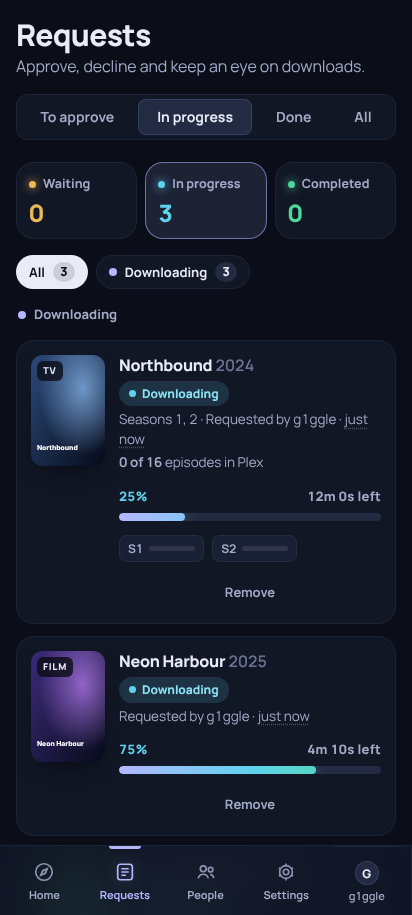
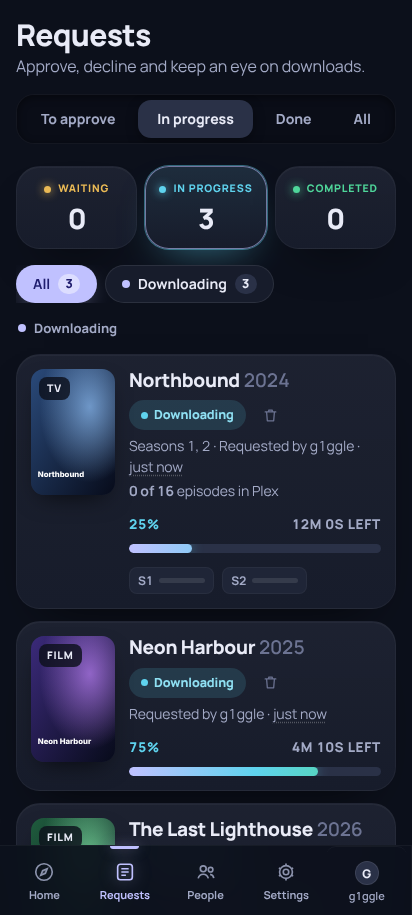
Match the reference styling: buttons, cards, chips, posters
- Slate cards with soft depth and 24px corners
- Pastel lavender buttons with dark ink text; glowing lavender-to-cyan Request button on title pages
- Recessed pill tabs; active filter chip is a glowing lavender pill
- Posters: rating chip, status label, a + button to request films in one tap (shows open the season picker)
- Request cards: bigger poster, full-width Approve with an icon Decline, remove tucked beside the status
- Centred stat tiles with coloured labels; round cast photos; cyan genres
- Phone: full-width title header without the squeezed poster
- Removed the last emoji from row titles

Claude-Session: https://claude.ai/code/session_01WbwGgC2FpzWvgXgKTPj5Lz

diff --git a/internal/web/static/app.js b/internal/web/static/app.js
@@ -158,6 +158,8 @@ function rowIcon(key) {
 }
 
 const I = {
+  x: '<svg viewBox="0 0 24 24" fill="none" stroke="currentColor" stroke-width="2" stroke-linecap="round"><path d="M6.5 6.5l11 11M17.5 6.5l-11 11"/></svg>',
+  trash: '<svg viewBox="0 0 24 24" fill="none" stroke="currentColor" stroke-width="1.8" stroke-linecap="round" stroke-linejoin="round"><path d="M4.5 7h15M9.5 7V4.5h5V7M6.5 7l1 12.5h9l1-12.5"/></svg>',
   discover: '<svg viewBox="0 0 24 24" fill="none" stroke="currentColor" stroke-width="1.8"><circle cx="12" cy="12" r="9"/><path d="m15.5 8.5-2 5-5 2 2-5z" fill="currentColor" fill-opacity=".25"/></svg>',
   search: '<svg viewBox="0 0 24 24" fill="none" stroke="currentColor" stroke-width="1.8"><circle cx="11" cy="11" r="6.5"/><path d="m20 20-4.2-4.2"/></svg>',
   requests: '<svg viewBox="0 0 24 24" fill="none" stroke="currentColor" stroke-width="1.8"><rect x="4" y="3.5" width="16" height="17" rx="3"/><path d="M8 8.5h8M8 12h8M8 15.5h5"/></svg>',
@@ -171,6 +173,28 @@ const I = {
 };
 
 const ACCENTS = [["violet", "#b4b6ff", "Lavender"], ["blue", "#5b93f0", "Blue"], ["teal", "#2fbfae", "Teal"], ["green", "#52c47c", "Green"], ["yellow", "#e9bb4a", "Yellow"], ["coral", "#ef8256", "Orange"], ["red", "#e55a61", "Red"], ["pink", "#e46aa8", "Pink"]];
+
+// The "+" on a poster: films are requested on the spot, shows open the
+// season picker on their page.
+async function quickRequest(el) {
+  const [type, id] = el.dataset.qreq.split(":");
+  if (type === "tv") { state.autoReq = true; location.hash = `#/title/tv/${id}`; return; }
+  el.classList.add("busy");
+  try {
+    await api("/requests", { method: "POST", body: { type: "movie", tmdbId: Number(id) } });
+    el.classList.remove("busy"); el.classList.add("done"); el.innerHTML = I.check; el.removeAttribute("data-qreq");
+    toast("Requested", "ok");
+    if (isAdmin()) refreshPending();
+  } catch (e) { el.classList.remove("busy"); toast(e.message, "error"); }
+}
+document.addEventListener("click", (e) => {
+  const q = e.target.closest && e.target.closest("[data-qreq]");
+  if (!q) return;
+  e.preventDefault(); e.stopPropagation(); quickRequest(q);
+}, true);
+document.addEventListener("keydown", (e) => {
+  if ((e.key === "Enter" || e.key === " ") && e.target.matches && e.target.matches("[data-qreq]")) { e.preventDefault(); quickRequest(e.target); }
+}, true);
 
 // ---------- boot & routing ----------
 async function boot() {
@@ -377,11 +401,12 @@ function card(c) {
   const st = c.status && c.status !== "none" ? `<div class="flag">${pill(c.status === "available" ? "available" : c.status)}</div>` : "";
   const p = img(c.poster);
   const rating = c.rating ? `<span class="crate">${c.rating.toFixed(1)}</span>` : "";
+  const quick = (!c.status || c.status === "none") ? `<span class="qadd" role="button" tabindex="0" data-qreq="${esc(c.type)}:${esc(c.id)}" aria-label="Request ${esc(c.title)}"${tip(c.type === "tv" ? "Request: pick the seasons" : "Request this film")}>${I.plus}</span>` : "";
   return `<a class="card" href="#/title/${esc(c.type)}/${esc(c.id)}" title="${esc(c.title)}">
     <div class="poster">${p ? `<img loading="lazy" src="${esc(p)}" alt="">` : `<div class="noimg">${esc(c.title)}</div>`}
-      <span class="type">${c.type === "tv" ? "TV" : "Film"}</span>${st}
+      ${c.rating ? `<span class="rchip">${c.rating.toFixed(1)}</span>` : ""}${st}${quick}
       <div class="peek"><div class="pt">${esc(c.title)}</div><div class="pm">${esc(c.year || "")} ${rating}</div>${c.overview ? `<div class="po">${esc(c.overview)}</div>` : ""}<span class="pgo">${c.status === "available" ? "In your Plex" : "View"} ${I.chev}</span></div></div>
-    <div class="meta"><div class="t">${esc(c.title)}</div><div class="y">${esc(c.year || "")}</div></div></a>`;
+    <div class="meta"><div class="t">${esc(c.title)}</div><div class="y">${[c.year, c.type === "tv" ? "TV" : "Film"].filter(Boolean).map(esc).join(" · ")}</div></div></a>`;
 }
 
 const skeletonRow = () => `<div class="scroller">${Array.from({ length: 8 }, () => `<div><div class="skeleton" style="aspect-ratio:2/3"></div></div>`).join("")}</div>`;
@@ -501,7 +526,7 @@ async function pageDiscover(main, q = "", focus = false) {
     : `<a class="btn primary" href="#/title/${esc(x.type)}/${esc(x.id)}">${I.plus} Request</a>`;
   h.innerHTML = slides.map((x, i) => `<div class="slide ${i === 0 ? "on" : ""}" style="background-image:url('${esc(img(x.backdrop, "w1280"))}')" aria-hidden="${i === 0 ? "false" : "true"}">
       <div class="inner">
-        ${x.status === "available" ? `<div class="qchips"><span class="qchip plex">In your Plex</span></div>` : ""}<div class="eyebrow">Trending this week · ${x.type === "tv" ? "TV show" : "Film"}</div>
+        ${x.status === "available" ? `<div class="qchips"><span class="qchip plex">In your Plex</span></div>` : ""}<div class="eyebrow"><span class="ech">Trending this week</span><span>${x.type === "tv" ? "TV show" : "Film"}</span></div>
         <h1>${esc(x.title)}</h1>
         <div class="hmeta">${x.rating ? `<span class="crate">${x.rating.toFixed(1)}</span>` : ""}${x.year ? `<span>${esc(x.year)}</span>` : ""}</div>
         <p>${esc(x.overview)}</p>
@@ -751,7 +776,7 @@ async function pageTitle(main, type, id) {
         ${qchipsHTML(P)}
         <div class="actions">
           ${P && P.url && ["available", "partial"].includes(s.status) ? `<a class="btn plex" href="${esc(P.url)}" target="_blank" rel="noopener"${tip("Open it in Plex")}>${I.play} Play on Plex</a>` : ""}
-          ${requestable ? `<button class="btn primary" id="reqBtn"${tip(isAdmin() || state.user.role === "trusted" ? "Starts downloading straight away" : "Sends it to the owner to approve")}>${I.plus} ${s.status === "partial" || (type === "tv" && Object.keys(s.seasons || {}).length) ? "Request more" : "Request"}</button>` : ""}
+          ${requestable ? `<button class="btn primary cta" id="reqBtn"${tip(isAdmin() || state.user.role === "trusted" ? "Starts downloading straight away" : "Sends it to the owner to approve")}>${I.plus} ${s.status === "partial" || (type === "tv" && Object.keys(s.seasons || {}).length) ? "Request more" : "Request"}</button>` : ""}
           ${d.trailer ? `<button class="btn" id="trailer"${tip("Watch the trailer here")}>Trailer</button>` : ""}
           ${cancelBtn}
         </div>
@@ -785,6 +810,7 @@ async function pageTitle(main, type, id) {
 
   const reqBtn = qs("#reqBtn");
   if (reqBtn) reqBtn.addEventListener("click", () => requestModal(type, d, s));
+  if (state.autoReq) { state.autoReq = false; if (reqBtn) requestModal(type, d, s); }
   const tr = qs("#trailer");
   if (tr) tr.addEventListener("click", () => modal(`<iframe class="video" src="https://www.youtube-nocookie.com/embed/${encodeURIComponent(d.trailer)}?autoplay=1" allow="autoplay; encrypted-media; picture-in-picture" allowfullscreen title="Trailer"></iframe>`, { wide: true }));
   const cb = qs("#cancelReq");
@@ -965,12 +991,12 @@ function reqRow(r) {
   const p = img(r.poster, "w185");
   const prog = journeyHTML(r.status, r.progress, true, r);
   let actions = "";
-  if (admin && r.status === "pending") actions = `<button class="btn sm ok" data-act="approve" data-id="${r.id}"${tip("Say yes: it goes straight to Radarr/Sonarr to download")}>${I.check} Approve</button><button class="btn sm danger" data-act="decline" data-id="${r.id}"${tip("Say no: they'll see it was declined")}>Decline</button>`;
-  else if (admin && r.status === "failed") actions = `<button class="btn sm" data-act="retry" data-id="${r.id}"${tip("Send it to Radarr/Sonarr again")}>Retry</button>`;
-  if (admin && r.progress && r.progress.blocked) actions += `<button class="btn sm ok" data-act="import" data-id="${r.id}"${tip("Radarr/Sonarr downloaded it but want someone to confirm the import (usually the file name doesn't quite match). This confirms it for you")}>Import it</button>`;
-  if (admin && r.status === "approved" && ["searching", "attention"].includes(r.state)) actions += `<button class="btn sm" data-act="search" data-id="${r.id}"${tip("Ask Radarr/Sonarr to look for a copy right now")}>Search again</button>`;
-  if (r.status === "pending" && (admin || r.requestedBy === state.user.id)) actions += `<button class="btn sm" data-act="delete" data-id="${r.id}">${admin ? "Delete" : "Cancel"}</button>`;
-  else if (admin && r.status !== "pending") actions += `<button class="btn sm ghost" data-act="delete" data-id="${r.id}"${tip(r.source === "watchlist" ? "Remove from this list. Encorr won't add it again from your Plex watchlist" : "Remove from this list (doesn't delete anything from Plex)")}>Remove</button>`;
+  if (admin && r.status === "pending") actions = `<button class="btn primary grow" data-act="approve" data-id="${r.id}"${tip("Say yes: it goes straight to Radarr/Sonarr to download")}>${I.check} Approve</button><button class="btn sq danger" data-act="decline" data-id="${r.id}" aria-label="Decline"${tip("Say no: they'll see it was declined")}>${I.x}</button>`;
+  else if (admin && r.status === "failed") actions = `<button class="btn primary grow" data-act="retry" data-id="${r.id}"${tip("Send it to Radarr/Sonarr again")}>Retry</button>`;
+  if (admin && r.progress && r.progress.blocked) actions += `<button class="btn primary grow" data-act="import" data-id="${r.id}"${tip("Radarr/Sonarr downloaded it but want someone to confirm the import (usually the file name doesn't quite match). This confirms it for you")}>Import it</button>`;
+  if (admin && r.status === "approved" && ["searching", "attention"].includes(r.state)) actions += `<button class="btn grow" data-act="search" data-id="${r.id}"${tip("Ask Radarr/Sonarr to look for a copy right now")}>Search again</button>`;
+  if (r.status === "pending" && (admin || r.requestedBy === state.user.id)) actions += `<button class="btn sq" data-act="delete" data-id="${r.id}" aria-label="${admin ? "Delete" : "Cancel"}"${tip(admin ? "Delete this request" : "Cancel your request")}>${I.trash}</button>`;
+  else if (admin && r.status !== "pending") actions += `<button class="btn sq" aria-label="Remove" data-act="delete" data-id="${r.id}"${tip(r.source === "watchlist" ? "Remove from this list. Encorr won't add it again from your Plex watchlist" : "Remove from this list (doesn't delete anything from Plex)")}>${I.trash}</button>`;
   const src = { watchlist: "from Plex watchlist", app: "from the app", discord: "from Discord" }[r.source] || "";
   const extra = [];
   if (r.type === "tv" && r.status === "approved" && r.want > 0) extra.push(`<span${tip("It moves to Completed once every episode that has aired is in Plex")}><b>${r.have || 0} of ${r.want}</b> episodes in Plex</span>`);
@@ -978,6 +1004,7 @@ function reqRow(r) {
   if (r.state === "searching") extra.push(r.lastSearch ? `<span${tip("Encorr asks Radarr/Sonarr to look again every 12 hours")}>Searched again ${when(r.lastSearch)}</span>` : `<span${tip("Encorr asks Radarr/Sonarr to look again every 12 hours")}>Encorr will search again automatically</span>`);
   const j = journeyState(r.status, r.progress, r);
   const pr = r.progress || {};
+  const lone = actions && !/grow|primary/.test(actions); // just a remove button: tuck it beside the status
   let progHtml = "";
   if (r.status === "approved" && r.state === "downloading" && pr.percent != null) {
     const pct = Math.max(0, Math.min(100, pr.percent));
@@ -991,14 +1018,14 @@ function reqRow(r) {
   return `<div class="req2 st-${esc(r.state || "")}" data-state="${esc(r.state || "")}">
     <a class="rposter" href="#/title/${esc(r.type)}/${esc(r.tmdbId)}">${p ? `<img src="${esc(p)}" alt="">` : `<div class="ph"></div>`}<span class="rtype">${r.type === "tv" ? "TV" : "FILM"}</span></a>
     <div class="rbody">
-      <div class="rtop"><a class="t" href="#/title/${esc(r.type)}/${esc(r.tmdbId)}">${esc(r.title)} <span class="yr">${esc(r.year || "")}</span></a><span class="spill2 ${esc(pillTxt[0])}">${esc(pillTxt[1])}</span></div>
+      <div class="rtop"><a class="t" href="#/title/${esc(r.type)}/${esc(r.tmdbId)}">${esc(r.title)} <span class="yr">${esc(r.year || "")}</span></a><span class="rtr"><span class="spill2 ${esc(pillTxt[0])}">${esc(pillTxt[1])}</span>${lone ? actions : ""}</span></div>
       <div class="s">${r.type === "tv" ? esc(seasonsText(r.seasons)) + " · " : ""}Requested by ${esc(r.user || "someone")} · ${when(r.created)}${src ? " · " + esc(src) : ""}</div>
       ${extra.length ? `<div class="s extras">${extra.join("")}</div>` : ""}
       ${r.note ? `<div class="s">“${esc(r.note)}”</div>` : ""}
       ${r.error ? `<div class="err">${esc(r.error)}</div>` : ""}
       ${progHtml}
       ${r.status === "approved" ? seasonBars(r.seasonProgress) : ""}
-      <div class="racts">${actions}</div>
+      ${lone ? "" : `<div class="racts">${actions}</div>`}
     </div>
   </div>`;
 }

diff --git a/internal/web/static/styles.css b/internal/web/static/styles.css
@@ -1021,3 +1021,156 @@ input[type=search]::-webkit-search-cancel-button { filter: grayscale(1) brightne
   .nav .badge { background: var(--hi); color: #04222b; }
 }
 .hero .hmeta .crate, .hero.carousel .hmeta .crate, .card .crate { color: var(--hi); }
+
+/* =====================================================================
+   Matched to the Lumière reference: slate cards with soft depth, pastel
+   lavender buttons with dark ink text, glowing gradient call to action,
+   recessed pill tabs, rating chips and a "+" on posters.
+   ===================================================================== */
+:root:not([data-theme="black"]) {
+  --bg-0: #0c101b; --surface-1: #171c2b; --surface-2: #1f2537; --surface-3: #2a3147;
+  --line: rgba(255, 255, 255, 0.045); --line-2: rgba(255, 255, 255, 0.09);
+  --shade: 12, 16, 27;
+}
+:root, [data-accent="violet"] { --accent: #c0c1ff; --accent-2: #dcdcff; --accent-pop: #cfd0ff; --accent-ink: #1f1d6e; --accent-glow: rgba(192, 193, 255, 0.5); }
+body { background: var(--bg-0); }
+.card-surface, .glass, .req2, .rstat, .t-side, .journey.glass, .settings .menu, .colbanner, .libsync {
+  background: linear-gradient(180deg, color-mix(in srgb, var(--surface-1) 92%, #fff 3%), var(--surface-1));
+  border: 1px solid var(--line); box-shadow: 0 24px 48px -28px rgba(0, 0, 0, 0.75), inset 0 1px 0 rgba(255, 255, 255, 0.04);
+}
+.glass, .req2, .rstat, .t-side, .journey.glass { border-radius: 24px; }
+
+/* Buttons */
+.btn { border-radius: 16px; padding: 12px 20px; font-size: 15px; font-weight: 750; background: var(--surface-3); border: 0; box-shadow: none; gap: 8px; }
+.btn:hover { background: color-mix(in srgb, var(--surface-3) 85%, #fff 8%); border: 0; }
+.btn svg { width: 18px; height: 18px; }
+.btn.primary { background: var(--accent); color: var(--accent-ink); box-shadow: 0 10px 30px -10px var(--accent-glow), inset 0 1px 0 rgba(255,255,255,.35); }
+.btn.primary:hover { background: var(--accent-pop); }
+.btn.cta { background: linear-gradient(90deg, var(--accent), var(--hi)); color: #0f1530; padding: 15px 28px; font-size: 16px; box-shadow: 0 14px 40px -10px color-mix(in srgb, var(--hi) 60%, transparent), 0 0 0 1px rgba(255,255,255,.12) inset; }
+.btn.cta:hover { filter: brightness(1.06); background: linear-gradient(90deg, var(--accent), var(--hi)); }
+.btn.sm { padding: 8px 13px; font-size: 13px; border-radius: 12px; }
+.btn.sq { width: 46px; height: 46px; padding: 0; justify-content: center; flex: none; border-radius: 14px; }
+.btn.danger { background: color-mix(in srgb, var(--bad) 12%, var(--surface-3)); color: var(--bad-2); border: 0; }
+.btn.ok { background: color-mix(in srgb, var(--ok) 16%, var(--surface-3)); color: var(--ok-2); border: 0; }
+.btn.grow { flex: 1; justify-content: center; }
+.btn.plex { border-radius: 16px; }
+
+/* Inputs and search */
+input[type=text], input[type=url], input[type=password], input[type=number], input[type=search], select, textarea { background: var(--surface-1); border: 1px solid var(--line-2); border-radius: 14px; }
+.searchbar.big { border-radius: 20px; background: var(--surface-1); border: 1px solid var(--line-2); padding: 6px; }
+.searchbar.big svg { color: var(--hi); }
+.searchbar.big .btn { border-radius: 14px; padding: 10px 18px; }
+
+/* Tabs: recessed track, lifted active pill */
+.tabs { background: #0a0d17; border: 1px solid var(--line); border-radius: 18px; padding: 5px; box-shadow: inset 0 2px 8px rgba(0,0,0,.45); }
+[data-theme="black"] .tabs { background: #0a0a0c; }
+.tabs button { border-radius: 13px; padding: 9px 16px; font-size: 14px; font-weight: 750; }
+.tabs button.on { background: var(--surface-3); color: var(--text); box-shadow: 0 4px 12px rgba(0,0,0,.35); }
+
+/* Chips: active is a glowing lavender pill */
+.chip { border-radius: 999px; background: var(--surface-1); border: 1px solid var(--line-2); padding: 8px 16px; font-size: 14px; }
+.chip.on { background: var(--accent); color: var(--accent-ink); border-color: transparent; box-shadow: 0 8px 22px -8px var(--accent-glow); }
+.chip.on b { background: rgba(255,255,255,.45); color: var(--accent-ink); }
+
+/* Section headings */
+.shelf-head h2 { font-size: 21px; font-weight: 800; }
+.shelf-head h2 .ri { color: var(--hi); width: 24px; height: 24px; }
+.shelf-head .see { color: var(--accent); font-size: 14px; font-weight: 800; }
+
+/* Posters */
+.scroller { grid-auto-columns: 168px; gap: 16px; }
+.card .poster { border-radius: 18px; box-shadow: 0 16px 34px -18px rgba(0,0,0,.8), 0 0 0 1px var(--line) inset; }
+.card .t { font-size: 14.5px; font-weight: 800; margin-top: 2px; }
+.card .y { font-size: 13px; color: var(--text-2); font-weight: 600; }
+.card .meta { padding: 11px 2px 0; }
+.rchip { position: absolute; top: 9px; left: 9px; z-index: 2; display: inline-flex; align-items: center; gap: 4px; padding: 5px 9px; border-radius: 10px; background: rgba(var(--shade), .82); backdrop-filter: blur(8px); font-size: 12.5px; font-weight: 800; color: var(--text); }
+.rchip::before { content: "\2605"; color: var(--hi); }
+.flag { top: 9px; right: 9px; }
+.flag .pill { border-radius: 10px; padding: 5px 9px; font-size: 11px; letter-spacing: .06em; text-transform: uppercase; font-weight: 850; background-color: rgba(var(--shade), .82) !important; }
+.flag .pill.available, .flag .pill.completed { color: var(--ok-2); }
+.flag .pill.processing, .flag .pill.approved { color: var(--hi); }
+.flag .pill.pending { color: var(--warn-2); }
+.qadd { position: absolute; right: 10px; bottom: 10px; z-index: 3; width: 42px; height: 42px; border-radius: 50%; display: grid; place-items: center; background: var(--accent); color: var(--accent-ink); box-shadow: 0 8px 22px -6px var(--accent-glow), inset 0 1px 0 rgba(255,255,255,.4); transition: transform .15s, background .15s; cursor: pointer; }
+.qadd svg { width: 20px; height: 20px; stroke-width: 2.4; }
+.qadd:hover { transform: scale(1.08); background: var(--accent-pop); }
+.qadd:focus-visible { outline: 2px solid #fff; outline-offset: 2px; }
+.qadd.busy { opacity: .6; pointer-events: none; }
+.qadd.done { background: var(--ok); color: #05261a; }
+.card:hover .peek ~ .qadd, .card .peek { z-index: 1; }
+@media (hover: hover) { .card .qadd { opacity: 0; transform: scale(.85); } .card:hover .qadd, .card:focus-within .qadd, .card .qadd.done { opacity: 1; transform: none; } }
+
+/* Home banner */
+.hero, .hero.carousel { border-radius: 28px; border: 0; box-shadow: 0 30px 60px -30px rgba(0,0,0,.8); min-height: 440px; }
+.hero.carousel .eyebrow { display: flex; align-items: center; gap: 10px; color: var(--text-2); font-size: 13px; font-weight: 750; margin-bottom: 10px; }
+.hero.carousel .eyebrow .ech { display: inline-flex; align-items: center; gap: 7px; padding: 6px 12px; border-radius: 999px; background: rgba(var(--shade), .75); backdrop-filter: blur(10px); color: var(--hi); font-size: 11.5px; font-weight: 850; letter-spacing: .08em; text-transform: uppercase; }
+.hero.carousel .eyebrow .ech::before { content: ""; width: 7px; height: 7px; border-radius: 50%; background: var(--hi); box-shadow: 0 0 10px var(--hi); }
+.hero.carousel .qchips { margin: 0 0 10px; }
+.hero h1, .hero.carousel h1 { font-size: 52px; }
+.hero.carousel .hmeta { font-size: 16px; font-weight: 750; gap: 12px; }
+.hero .row .btn { padding: 14px 26px; font-size: 16px; border-radius: 18px; }
+.qchip { border-radius: 10px; text-transform: uppercase; letter-spacing: .07em; font-weight: 850; font-size: 11.5px; padding: 6px 11px; background: rgba(var(--shade), .7); border: 0; }
+.qchip.plex { text-transform: uppercase; background: rgba(var(--shade), .8); }
+@media (max-width: 760px) {
+  .hero h1, .hero.carousel h1 { font-size: 32px; }
+  .hero .row { flex-wrap: nowrap; } .hero .row .btn.primary, .hero .row .have { flex: 1; justify-content: center; }
+  .scroller { grid-auto-columns: 148px; }
+}
+
+/* Requests: stat tiles centred like the reference */
+.rstat { text-align: center; padding: 18px 12px; }
+.rstat .k { justify-content: center; text-transform: uppercase; letter-spacing: .08em; font-size: 12px; font-weight: 850; color: var(--c); }
+.rstat .n { font-size: 38px; color: var(--text); margin-top: 6px; }
+.rstat .d { font-size: 13px; color: var(--text-2); }
+.rstat.on { box-shadow: 0 0 0 1px color-mix(in srgb, var(--c) 45%, transparent), 0 18px 40px -20px color-mix(in srgb, var(--c) 55%, transparent); background: linear-gradient(180deg, color-mix(in srgb, var(--c) 9%, var(--surface-1)), var(--surface-1)); }
+
+/* Requests: cards */
+.req2 { grid-template-columns: 112px 1fr; gap: 20px; padding: 18px; }
+.rposter img, .rposter .ph { width: 112px; border-radius: 16px; }
+.rposter .rtype { top: 8px; left: 8px; font-size: 10.5px; padding: 4px 8px; border-radius: 8px; }
+.rtop .t { font-size: 19px; }
+.spill2 { padding: 6px 12px; font-size: 12.5px; }
+.req2 .s { font-size: 14px; }
+.pline { font-size: 13.5px; letter-spacing: .05em; text-transform: uppercase; }
+.pbar { height: 9px; margin-top: 9px; }
+.pstate { background: #0d111c; border: 1px solid var(--line); border-radius: 16px; padding: 12px 14px; font-size: 14px; }
+[data-theme="black"] .pstate { background: #0f0f12; }
+.racts { margin-top: 14px; justify-content: flex-start; gap: 10px; }
+.racts .btn:not(.sq):not(.grow) { flex: 1; }
+.racts:has(.btn.sq:only-child) { justify-content: flex-end; }
+@media (max-width: 760px) {
+  .req2 { grid-template-columns: 84px 1fr; gap: 14px; padding: 14px; }
+  .rposter img, .rposter .ph { width: 84px; border-radius: 13px; }
+  .rstat .n { font-size: 28px; } .rstat { padding: 14px 8px; } .rstat .k { font-size: 10.5px; }
+}
+
+/* Title page */
+.t-facts .gl, .t-facts .gl a { color: var(--hi); font-weight: 750; }
+.t-facts .cert { border-radius: 8px; background: var(--surface-3); padding: 3px 8px; font-weight: 800; }
+.tpill { border-radius: 999px; padding: 6px 12px; font-weight: 850; }
+.t-main h1 { font-size: 48px; }
+.actions .btn { padding: 14px 24px; font-size: 16px; border-radius: 18px; }
+@media (max-width: 760px) { .t-main h1 { font-size: 32px; } .actions .btn.cta { flex: 1 1 100%; justify-content: center; } }
+
+/* Cast: round photos */
+.scroller.cast { grid-auto-columns: 112px; gap: 18px; }
+.person .ph { aspect-ratio: 1; border-radius: 50%; box-shadow: 0 0 0 2px var(--surface-3), 0 12px 26px -14px rgba(0,0,0,.8); }
+.person:hover .ph { box-shadow: 0 0 0 2px var(--accent), 0 12px 26px -14px rgba(0,0,0,.8); transform: translateY(-3px); }
+.person .n, .person .c { text-align: center; }
+.person .n { font-weight: 800; margin-top: 10px; }
+
+/* Menu and phone bar */
+.nav a.item.active { background: color-mix(in srgb, var(--accent) 14%, var(--surface-2)); }
+.nav a.item.active svg { color: var(--accent); }
+.nav a.item.active::before { background: var(--accent); box-shadow: 0 0 12px var(--accent-glow); }
+@media (max-width: 760px) { .nav { background: rgba(var(--shade), .92); } .nav a.item.active { background: none; } .nav a.item.active::before { left: 32%; right: 32%; } }
+/* Status sits bottom-left so it never collides with the rating chip. */
+.card .flag { top: auto; right: auto; bottom: 10px; left: 10px; }
+@media (max-width: 760px) {
+  .t-head .poster { display: none; }
+  .t-hero { min-height: 0; padding-top: 170px; }
+  .t-head { grid-template-columns: 1fr; }
+}
+.rtr { display: inline-flex; align-items: center; gap: 8px; flex: none; }
+.rtr .btn.sq { width: 34px; height: 34px; border-radius: 11px; background: transparent; color: var(--text-3); }
+.rtr .btn.sq:hover { background: var(--surface-3); color: var(--bad-2); }
+.rtr .btn.sq svg { width: 17px; height: 17px; }

diff --git a/internal/tmdb/rows.go b/internal/tmdb/rows.go
@@ -20,7 +20,7 @@ type Row struct {
 // Fixed rows always show, in this order.
 var fixedRows = []Row{
 	{"trending", "Trending this week"},
-	{"plex-recent", "🆕 Just added to Plex"},
+	{"plex-recent", "Just added to Plex"},
 	{"movies", "Popular films"},
 	{"tv", "Popular TV"},
 	{"upcoming", "Coming soon to cinemas"},
@@ -42,7 +42,7 @@ var rotatingPool = []Row{
 	{"network:2552", "Apple TV+"},
 	{"network:2739", "Disney+ originals"},
 	{"network:1024", "Prime Video originals"},
-	{"network:4", "🇬🇧 BBC One"},
+	{"network:4", "🇧 BBC One"},
 	{"top-movies", "Top rated films of all time"},
 	{"top-tv", "Top rated TV of all time"},
 	{"now-playing", "In cinemas now"},

diff --git a/internal/app/handlers.go b/internal/app/handlers.go
@@ -579,7 +579,7 @@ func (a *App) hDiscover(w http.ResponseWriter, r *http.Request, u *store.User) {
 		if page <= 1 {
 			cards = append(cards, a.plexRecent(r.Context())...)
 		}
-		writeJSON(w, 200, map[string]any{"results": a.annotate(cards, u.ID), "totalPages": 1, "title": "🆕 Just added to Plex"})
+		writeJSON(w, 200, map[string]any{"results": a.annotate(cards, u.ID), "totalPages": 1, "title": "Just added to Plex"})
 		return
 	}
 	cards, pages, err := a.TMDB().List(r.Context(), key, page)
